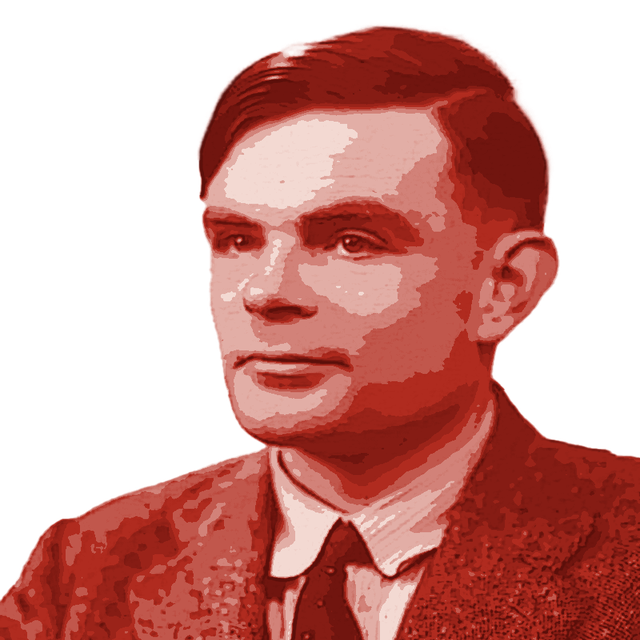
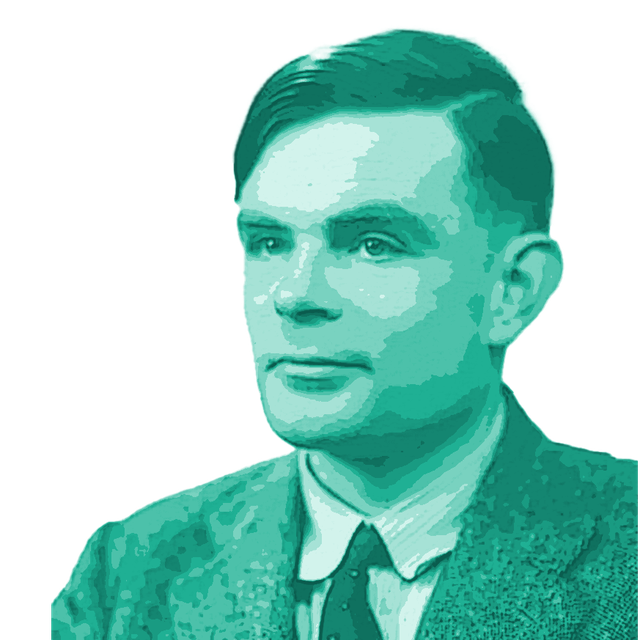
Change stamps Color

diff --git a/script.js b/script.js
@@ -3,7 +3,7 @@ const BIO_PAGE = "https://wwp.shizuoka.ac.jp/vision-i/%E6%83%85%E5%A0%B1%E5%AD%A
 const FIGURES = [
   {
     id: "grace-hopper",
-    name: "Grace Hopper（グレイス・ホッパー）",
+    name: "Grace Hopper",
     qrMatch: "gratefigures_01",
     stampImg: "assets/grace-hopper-stamp.png",
     bio: "1906–1992。アメリカ海軍少将であり計算機科学者。プログラミング言語を人間にとって読みやすいものにしようと、世界最初期のコンパイラを開発しました。その成果は後にCOBOLの誕生へとつながり、今日の情報システムの基盤を築いたことから「コンピュータプログラミングの母」とも呼ばれています。",
@@ -11,7 +11,7 @@ const FIGURES = [
   },
   {
     id: "tim-berners-lee",
-    name: "Tim Berners-Lee（ティム・バーナーズ＝リー）",
+    name: "Tim Berners-Lee",
     qrMatch: "gratefigures_02",
     stampImg: "assets/tim-berners-lee-stamp.png",
     bio: "1955–。英国出身の計算機科学者。CERN在籍中の1990年、研究成果を共有する仕組みとしてワールド・ワイド・ウェブ（WWW）を考案し、世界初のウェブサイトとブラウザを開発しました。現代のインターネット社会の土台を築いた人物です。",
@@ -19,7 +19,7 @@ const FIGURES = [
   },
   {
     id: "marvin-minsky",
-    name: "Marvin Minsky（マーヴィン・ミンスキー）",
+    name: "Marvin Minsky",
     qrMatch: "greatfigures_03",
     stampImg: "assets/marvin-minsky-stamp.png",
     bio: "1927–2016。アメリカの認知科学者・AI研究者。1959年にMITで人工知能研究所を共同設立し、「人工知能」という分野を切り拓いた第一人者の一人です。著書『The Society of Mind』では、心とは単純な仕組みが数多く協調して生まれるものだという理論を提唱しました。",
@@ -27,7 +27,7 @@ const FIGURES = [
   },
   {
     id: "alan-turing",
-    name: "Alan Turing（アラン・チューリング）",
+    name: "Alan Turing",
     qrMatch: "greatfigures_04",
     stampImg: "assets/alan-turing-stamp.png",
     bio: "1912–1954。現代計算機科学の基礎を築いた数学者。1936年、抽象的な計算のしくみである「チューリングマシン」を考案し、「計算とは何か」を理論化しました。1950年には機械が思考しうるかを問う「チューリングテスト」を提示しています。",
@@ -35,7 +35,7 @@ const FIGURES = [
   },
   {
     id: "claude-shannon",
-    name: "Claude Shannon（クロード・シャノン）",
+    name: "Claude Shannon",
     qrMatch: "greatfigures_05",
     stampImg: "assets/claude-shannon-stamp.png",
     bio: "1916–2001。「情報理論」の生みの親。1948年の論文で情報量やビット、通信容量といった概念を数学的に定義し、雑音のある通信路でも誤り訂正しながら正確に情報を伝えられることを示しました。今日のデジタル通信・インターネットの理論的土台です。",
@@ -43,7 +43,7 @@ const FIGURES = [
   },
   {
     id: "john-von-neumann",
-    name: "John von Neumann（ジョン・フォン・ノイマン）",
+    name: "John von Neumann",
     qrMatch: "greatfigures_06",
     stampImg: "assets/john-von-neumann-stamp.png",
     bio: "1903–1957。数学・物理・経済など複数分野にまたがる業績を残した学者。プログラムとデータを同じメモリに格納する「ノイマン型」のコンピュータ構造を提案し、今日のほぼすべてのコンピュータの基本設計として使われています。ゲーム理論の確立者でもあります。",
@@ -51,7 +51,7 @@ const FIGURES = [
   },
   {
     id: "alan-kay",
-    name: "Alan Kay（アラン・ケイ）",
+    name: "Alan Kay",
     qrMatch: "greatfigures_07",
     stampImg: "assets/alan-kay-stamp.png",
     bio: "1940–。Xerox PARCで活躍した計算機科学者。開発した言語Smalltalkはオブジェクト指向プログラミングの先駆けとなり、後のJavaやPython、GUIの考え方に影響を与えました。1970年代には、誰もが使える携帯型の知的道具「Dynabook」を構想し、今日のタブレットやノートPCの原型となりました。",
@@ -59,7 +59,7 @@ const FIGURES = [
   },
   {
     id: "jun-murai",
-    name: "村井純（Jun Murai）",
+    name: "村井純",
     qrMatch: "greatfigures_08",
     stampImg: "assets/jun-murai-stamp.png",
     bio: "1955–。日本にインターネット技術を導入し、学術ネットワークから商用インターネットへの普及を主導した人物で、「日本のインターネットの父」と呼ばれています。1980年代にWIDEプロジェクトを立ち上げ、日本のネットワーク基盤づくりを牽引しました。",
@@ -67,7 +67,7 @@ const FIGURES = [
   },
   {
     id: "herbert-simon",
-    name: "Herbert A. Simon（ハーバート・サイモン）",
+    name: "Herbert A. Simon",
     qrMatch: "greatfigures_09",
     stampImg: "assets/herbert-simon-stamp.png",
     bio: "1916–2001。認知科学・経済学など幅広い分野で革新的理論を残した学者。人工知能の草創期には知能をシンボル操作として捉える理論を提唱し、経済学では人間の意思決定を現実的にとらえる「限定合理性」の概念を導入しました。1978年にノーベル経済学賞を受賞しています。",
@@ -272,16 +272,19 @@ function triggerStamp() {
   document.getElementById("screen-stamp").classList.add("active");
   document.getElementById("figure-bio").classList.add("hidden");
 
-  // restart the fx animation each time
-  const fx = document.getElementById("stamp-fx");
+  // restart the fx animations every time, even if the stamp screen was
+  // already visible (CSS animations only auto-replay on a display:none -> block
+  // transition, so force it explicitly via the animation:none reflow trick)
   document.querySelector(".stamp-image").src = figure.stampImg;
-  fx.classList.remove("play");
-  void fx.offsetWidth; // reflow to restart CSS animations
-  fx.classList.add("play");
+  document.querySelectorAll(".stamp-image, .ink-ring, .get-label").forEach(el => {
+    el.style.animation = "none";
+    void el.offsetWidth;
+    el.style.animation = "";
+  });
 
   renderPassport(alreadyHad ? null : id);
   setTimeout(playThunk, 350);
-  setTimeout(() => showFigureBio(figure), 1250);
+  setTimeout(() => showFigureBio(figure), 1950);
 }
 
 /* ---------------- wiring ---------------- */

diff --git a/style.css b/style.css
@@ -356,11 +356,13 @@ html, body {
   letter-spacing: .06em;
   opacity: 0;
   transform: scale(.6);
-  animation: get-pop .4s ease-out forwards;
+  animation: get-pop 1.1s ease-out forwards;
   animation-delay: .85s;
 }
 @keyframes get-pop {
   0%   { opacity: 0; transform: scale(.6); }
-  70%  { opacity: 1; transform: scale(1.15); }
-  100% { opacity: 1; transform: scale(1); }
+  25%  { opacity: 1; transform: scale(1.15); }
+  36%  { opacity: 1; transform: scale(1); }
+  70%  { opacity: 1; transform: scale(1); }
+  100% { opacity: 0; transform: scale(1); }
 }

diff --git a/assets/make_all_stamps.py b/assets/make_all_stamps.py
@@ -5,17 +5,31 @@ from PIL import Image, ImageOps
 
 SRC_DIR = r"C:\Users\kase0\Downloads\20260725GrateFigures\20251025偉人画像"
 
+# (person_id, relative source path, manual face box override or None)
 PEOPLE = [
-    ("grace-hopper", "01GraceHopper/image/Grace_Hopper_in_the_1940s_posterization_contrast.png"),
-    ("tim-berners-lee", "02TimBernersLee/Tim_Berners-Lee_2023-corp_posterized.png"),
-    ("marvin-minsky", "03MarvinMinsky/Marvin_Minsky01.png"),
-    ("alan-turing", "04AlanTuring/Alan_Turing_(1951)01.png"),
-    ("claude-shannon", "05ClaudeShannon/Alan_Turing_(1951)01.png"),  # placeholder, wrong photo, see note
-    ("john-von-neumann", "06JohnvonNeumann/JohnvonNeumann-LosAlamos01.png"),
-    ("alan-kay", "07AlanKay/Alan_Kay_and_the_prototype_of_Dynabook,_pt._5_(3010032738)01.png"),
-    ("jun-murai", "08JunMurai/Jun_Murai_on_Jan_16,_2020_01.png"),
-    ("herbert-simon", "09HerbertASimon/Herbert_Simon,_RIT_NandE_Vol13Num11_1981_Mar19_Complete01.png"),
+    ("grace-hopper", "01GraceHopper/image/Grace_Hopper_in_the_1940s_posterization_contrast.png", None),
+    ("tim-berners-lee", "02TimBernersLee/Tim_Berners-Lee_2023-corp_posterized.png", None),
+    ("marvin-minsky", "03MarvinMinsky/Marvin_Minsky01.png", None),
+    ("alan-turing", "04AlanTuring/Alan_Turing_(1951)01.png", None),
+    ("claude-shannon", "05ClaudeShannon/C.E._Shannon._Tekniska_museet_43069_01.png", None),
+    ("john-von-neumann", "06JohnvonNeumann/JohnvonNeumann-LosAlamos01.png", None),
+    ("alan-kay", "07AlanKay/Alan_Kay_and_the_prototype_of_Dynabook,_pt._5_(3010032738)01.png", (1050, 400, 2020, 1370)),
+    ("jun-murai", "08JunMurai/Jun_Murai_on_Jan_16,_2020_01.png", (600, 100, 1300, 800)),
+    ("herbert-simon", "09HerbertASimon/Herbert_Simon,_RIT_NandE_Vol13Num11_1981_Mar19_Complete01.png", None),
 ]
+
+# duotone (shadow, mid, highlight) per person -- distinct ink colors, not all red
+COLORS = {
+    "grace-hopper":     ("#5c0f0a", "#b02a1e", "#f3d9d2"),  # red
+    "tim-berners-lee":  ("#0a2a5c", "#1e5ab0", "#d2e3f3"),  # blue
+    "marvin-minsky":    ("#3a0a5c", "#6a1eb0", "#e3d2f3"),  # purple
+    "alan-turing":      ("#0a5c4e", "#1eb094", "#d2f3ec"),  # teal
+    "claude-shannon":   ("#5c330a", "#b0731e", "#f3e4d2"),  # orange
+    "john-von-neumann": ("#16105c", "#3325b0", "#dcd8f3"),  # indigo
+    "alan-kay":         ("#5c0a3d", "#b01e73", "#f3d2e6"),  # magenta
+    "jun-murai":        ("#1a4d10", "#3d941e", "#dcf0d2"),  # green
+    "herbert-simon":    ("#4a2f0a", "#8f631e", "#ecdfc9"),  # amber/brown
+}
 
 frontal = cv2.CascadeClassifier(cv2.data.haarcascades + "haarcascade_frontalface_default.xml")
 profile = cv2.CascadeClassifier(cv2.data.haarcascades + "haarcascade_profileface.xml")
@@ -41,10 +55,8 @@ def detect_face_box(rgba_img):
 
     if not candidates:
         return None
-
-    # pick the largest detected face
     x, y, w, h = max(candidates, key=lambda b: b[2] * b[3])
-    return x, y, w, h
+    return int(x), int(y), int(w), int(h)
 
 
 def alpha_bbox_fallback(rgba_img):
@@ -58,45 +70,43 @@ def alpha_bbox_fallback(rgba_img):
     return x0, y0, x1 - x0, y1 - y0
 
 
-def make_stamp(person_id, rel_path):
+def make_stamp(person_id, rel_path, manual_box=None):
     src_path = os.path.join(SRC_DIR, rel_path)
     img = Image.open(src_path).convert("RGBA")
     W, H = img.size
 
-    face = detect_face_box(img)
-    if face is None:
-        face = alpha_bbox_fallback(img)
-    fx, fy, fw, fh = face
+    if manual_box:
+        left, top, right, bottom = manual_box
+    else:
+        face = detect_face_box(img) or alpha_bbox_fallback(img)
+        fx, fy, fw, fh = face
+        cx = fx + fw / 2
+        cy = fy + fh / 2
+        side = int(max(fw, fh) * 2.3)
+        left = int(cx - side / 2)
+        top = int(cy - side * 0.42)
+        right = left + side
+        bottom = top + side
 
-    cx = fx + fw / 2
-    cy = fy + fh / 2
-
-    side = int(max(fw, fh) * 2.3)
-    left = int(cx - side / 2)
-    top = int(cy - side * 0.42)  # keep more headroom above, some room below for neck/collar
-
-    left = max(0, min(left, W - 1))
-    top = max(0, min(top, H - 1))
-    right = min(W, left + side)
-    bottom = min(H, top + side)
-    left = max(0, right - side)
-    top = max(0, bottom - side)
-
+    # Crop with out-of-bounds coords allowed: PIL pads RGBA overflow with
+    # transparent pixels, which keeps the square perfectly 1:1 (no stretch).
     square = img.crop((left, top, right, bottom))
+    assert square.width == square.height, f"{person_id}: non-square crop {square.size}"
 
     gray = ImageOps.grayscale(square)
-    colorized = ImageOps.colorize(gray, black="#5c0f0a", white="#f3d9d2", mid="#b02a1e").convert("RGBA")
+    black, mid, white = COLORS[person_id]
+    colorized = ImageOps.colorize(gray, black=black, white=white, mid=mid).convert("RGBA")
     colorized.putalpha(square.getchannel("A"))
 
     max_size = 640
-    if colorized.width > max_size:
+    if colorized.width != max_size:
         colorized = colorized.resize((max_size, max_size), Image.LANCZOS)
 
     out_path = f"{person_id}-stamp.png"
     colorized.save(out_path)
-    print(f"{person_id}: face_box={face} crop=({left},{top},{right},{bottom}) -> {out_path}")
+    print(f"{person_id}: crop=({left},{top},{right},{bottom}) size={square.size} -> {out_path}")
 
 
 if __name__ == "__main__":
-    for person_id, rel_path in PEOPLE:
-        make_stamp(person_id, rel_path)
+    for person_id, rel_path, manual_box in PEOPLE:
+        make_stamp(person_id, rel_path, manual_box)
